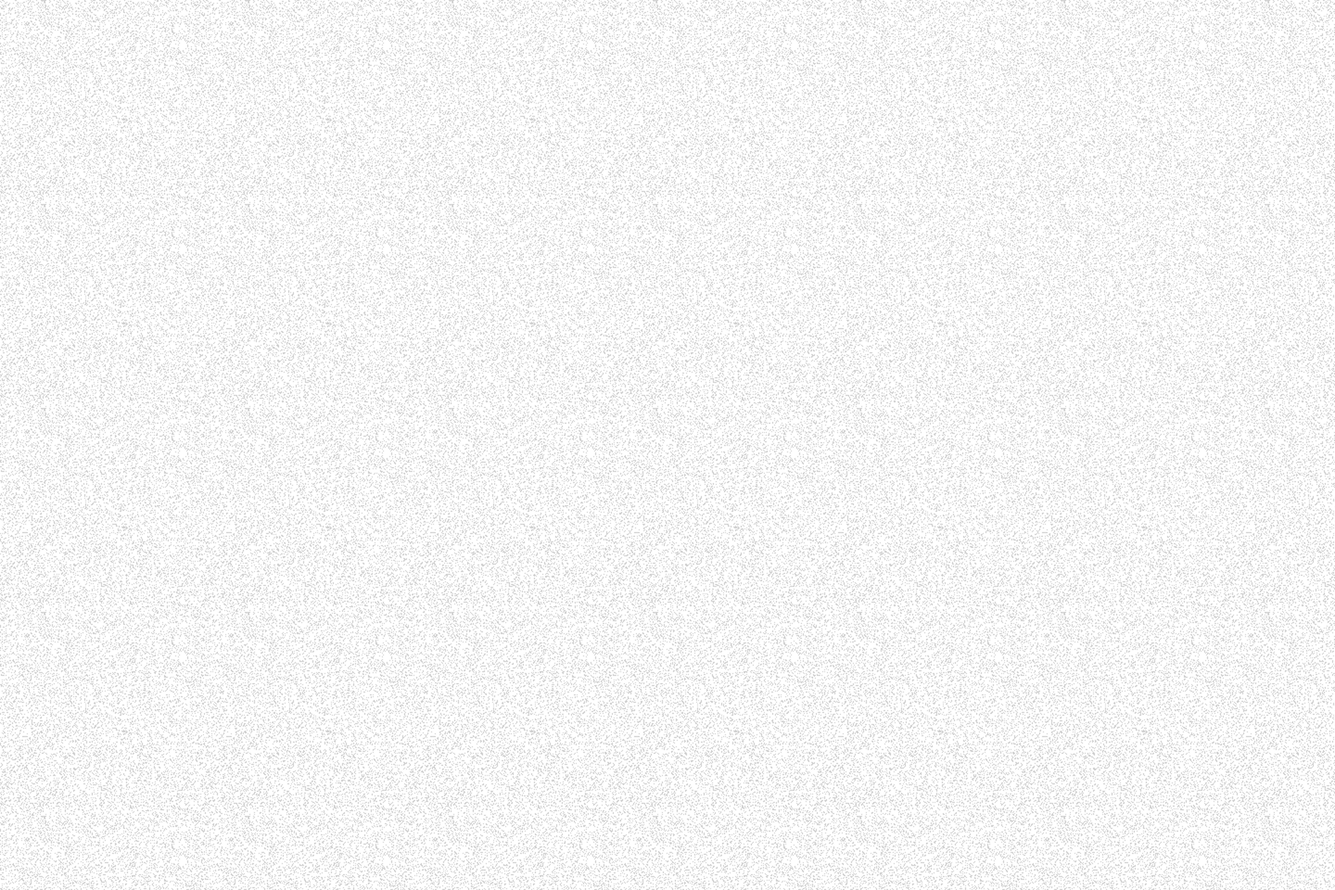
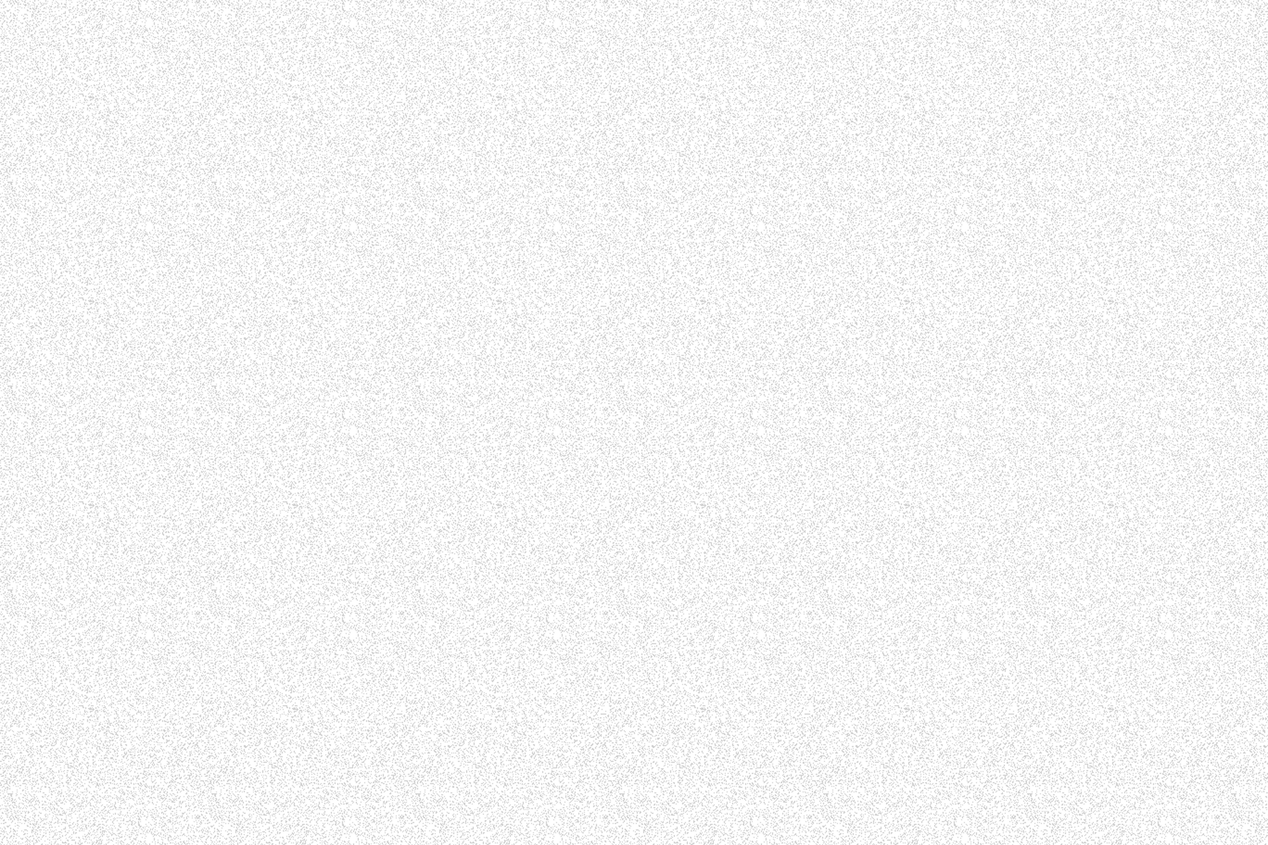
Password change stepper added

Changed region(s): [[0.0, 0.0, 1.0, 1.0]]

diff --git a/components/features/UserDashboard/Settings/PasswordChangeStepper/PasswordChangeStepper.tsx b/components/features/UserDashboard/Settings/PasswordChangeStepper/PasswordChangeStepper.tsx
@@ -1,0 +1,257 @@
+"use client";
+import React, { useState } from "react";
+import { useForm } from "react-hook-form";
+import { Check } from "lucide-react";
+
+const PasswordChangeStepper = () => {
+  const [currentStep, setCurrentStep] = useState(1);
+  const [completedSteps, setCompletedSteps] = useState([]);
+
+  const {
+    register,
+    handleSubmit,
+    watch,
+    formState: { errors },
+    reset,
+  } = useForm({
+    mode: "onChange",
+  });
+
+  const steps = [
+    { number: 1, title: "Personal Information" },
+    { number: 2, title: "Payment Password change" },
+    { number: 3, title: "Login Password change" },
+  ];
+
+  const onSubmit = (data: any) => {
+    console.log("Form submitted:", data);
+    if (currentStep < 3) {
+      if (!completedSteps.includes(currentStep as never)) {
+        setCompletedSteps([...completedSteps, currentStep as never]);
+      }
+      setCurrentStep(currentStep + 1);
+    } else {
+      alert("Password change process completed!");
+    }
+  };
+
+  const handleClear = () => {
+    reset();
+  };
+
+  const watchedNewPassword = watch("newPassword");
+
+  const renderStepContent = () => {
+    switch (currentStep) {
+      case 1:
+        return (
+          <div className="mt-12 relative z-10">
+            <div>
+              <label className="block text-white text-base mb-3">
+                Verification Code<span className="text-red-500 ml-1">*</span>
+              </label>
+              <input
+                {...register("verificationCode", {
+                  required: "Verification code is required",
+                })}
+                type="text"
+                className="w-full py-3 px-4 bg-[#0E0E0E] border border-[#424242] rounded-lg text-white text-base focus:outline-none focus:border-[#00E889] transition-colors"
+              />
+              {errors.verificationCode && (
+                <p className="text-red-500 text-sm mt-2">
+                  {errors.verificationCode.message as string}
+                </p>
+              )}
+            </div>
+          </div>
+        );
+
+      case 2:
+      case 3:
+        return (
+          <div className="mt-12 space-y-8 relative z-10">
+            <div>
+              <label className="block text-white text-base mb-3">
+                New Password<span className="text-red-500 ml-1">*</span>
+              </label>
+              <input
+                {...register("newPassword", {
+                  required: "New password is required",
+                  minLength: {
+                    value: 6,
+                    message: "Password must be at least 6 characters",
+                  },
+                })}
+                type="password"
+                className="w-full py-3 px-4 bg-[#0E0E0E] border border-[#424242] rounded-lg text-white text-base focus:outline-none focus:border-[#00E889] transition-colors"
+              />
+              {errors.newPassword && (
+                <p className="text-red-500 text-sm mt-2">
+                  {errors.newPassword.message as string}
+                </p>
+              )}
+            </div>
+
+            <div>
+              <label className="block text-white text-base mb-3">
+                Repeat Password<span className="text-red-500 ml-1">*</span>
+              </label>
+              <input
+                {...register("repeatPassword", {
+                  required: "Please repeat your password",
+                  validate: (value) =>
+                    value === watchedNewPassword || "Passwords do not match",
+                })}
+                type="password"
+                className="w-full py-3 px-4 bg-[#0E0E0E] border border-[#424242] rounded-lg text-white text-base focus:outline-none focus:border-[#00E889] transition-colors"
+              />
+              {errors.repeatPassword && (
+                <p className="text-red-500 text-sm mt-2">
+                  {errors.repeatPassword.message as string}
+                </p>
+              )}
+            </div>
+
+            <div>
+              <label className="block text-white text-base mb-3">
+                Google Verification Code
+                <span className="text-red-500 ml-1">*</span>
+              </label>
+              <input
+                {...register("googleVerificationCode", {
+                  required: "Google verification code is required",
+                })}
+                type="text"
+                className="w-full py-3 px-4 bg-[#0E0E0E] border border-[#424242] rounded-lg text-white text-base focus:outline-none focus:border-[#00E889] transition-colors"
+              />
+              {errors.googleVerificationCode && (
+                <p className="text-red-500 text-sm mt-2">
+                  {errors.googleVerificationCode.message as string}
+                </p>
+              )}
+            </div>
+          </div>
+        );
+
+      default:
+        return null;
+    }
+  };
+
+  // Calculate progress percentage based on completed steps
+  const getProgressPercentage = () => {
+    if (completedSteps.length === 0) return 0;
+    return (completedSteps.length / (steps.length - 1)) * 100;
+  };
+
+  return (
+    <div className="flex items-center justify-center rounded-3xl overflow-hidden border-b border-[#0c1411] relative">
+      <div
+        style={{
+          backgroundImage: `linear-gradient(180deg, #010101f3 81.09%, #010101f3 100%), url('https://images.unsplash.com/photo-1557683311-eac922347aa1?w=800&h=600&fit=crop')`,
+        }}
+        className="w-full p-4 md:p-8 bg-cover bg-top rounded-3xl overflow-hidden relative"
+      >
+        <div
+          className={`h-[611px] w-[611px] bg-[#00E889] rounded-full absolute -top-[149px] -right-[254px] blur-[200px] opacity-[0.05] group-hover:opacity-[0.2] transition-all duration-300`}
+        />
+        <div
+          className={`h-[611px] w-[611px] bg-[#00E889] rounded-full absolute -bottom-[149px] -left-[254px] blur-[200px] opacity-[0.05] group-hover:opacity-[0.2] transition-all duration-300`}
+        />
+        
+        <div>
+          {/* Stepper Header */}
+          <div className="mb-16">
+            <div className="flex items-start justify-between relative">
+              {/* Background dotted lines - layered approach */}
+              <div className="max-w-[70%] absolute top-5 left-0 right-0 h-[2px] flex">
+                {/* Gray background dots for entire progress */}
+                <div
+                  className="w-full h-full"
+                  style={{
+                    backgroundImage: "radial-gradient(circle, #6b7280 2px, transparent 2px)",
+                    backgroundSize: "8px 2px",
+                    backgroundRepeat: "repeat-x",
+                  }}
+                />
+                
+                {/* Green progress dots overlay */}
+                <div
+                  className="absolute top-0 left-0 h-full transition-all duration-500 ease-in-out"
+                  style={{
+                    width: `${getProgressPercentage()}%`,
+                    backgroundImage: "radial-gradient(circle, #00E889 2px, transparent 2px)",
+                    backgroundSize: "8px 2px",
+                    backgroundRepeat: "repeat-x",
+                  }}
+                />
+              </div>
+
+              {steps.map((step, index) => (
+                <div
+                  key={step.number}
+                  className="flex flex-col relative z-10 flex-1"
+                >
+                  {/* Step Circle */}
+                  <div
+                    className={`w-10 h-10 rounded-full flex items-center justify-center text-sm font-semibold mb-3 relative border-[6px] border-[#0B1913] transition-all duration-300 ${
+                      completedSteps.includes(step.number as never)
+                        ? "bg-gradient-to-r from-[#067549] to-[#00E889] text-white"
+                        : step.number === currentStep
+                        ? "bg-[#00E889] text-white"
+                        : "bg-white text-black"
+                    }`}
+                  >
+                    <div className="absolute inset-0 bg-gray-900 rounded-full -z-10"></div>
+                    {completedSteps.includes(step.number as never) ? (
+                      <Check size={24} />
+                    ) : (
+                      `0${step.number}`
+                    )}
+                  </div>
+
+                  {/* Step Title */}
+                  <span
+                    className={`text-[0.5rem] sm:text-sm font-medium leading-tight px-2 transition-colors duration-300 ${
+                      step.number === currentStep ||
+                      completedSteps.includes(step.number as never)
+                        ? "text-green-400"
+                        : "text-gray-400"
+                    }`}
+                  >
+                    {step.title}
+                  </span>
+                </div>
+              ))}
+            </div>
+          </div>
+
+          {/* Form Content */}
+          <div>
+            {renderStepContent()}
+
+            {/* Action Buttons */}
+            <div className="flex gap-6 mt-16 relative z-10">
+              <button
+                type="button"
+                onClick={handleClear}
+                className="p-3 w-[167px] bg-gray-700 hover:bg-gray-600 text-white font-semibold rounded-full transition-all text-base cursor-pointer duration-300"
+              >
+                Clear
+              </button>
+              <button
+                type="button"
+                onClick={handleSubmit(onSubmit)}
+                className="p-3 w-[167px] bg-transparent hover:bg-[#00E889]/10 text-green-400 hover:text-green-300 font-semibold rounded-full border border-[#00E889] hover:border-green-400 transition-all text-base cursor-pointer duration-300"
+              >
+                Submit
+              </button>
+            </div>
+          </div>
+        </div>
+      </div>
+    </div>
+  );
+};
+
+export default PasswordChangeStepper;

diff --git a/app/(dashboard)/dashboard/settings/page.tsx b/app/(dashboard)/dashboard/settings/page.tsx
@@ -1,11 +1,14 @@
-import React from 'react'
-
+import React from "react";
+import PasswordChangeStepper from "@/components/features/UserDashboard/Settings/PasswordChangeStepper/PasswordChangeStepper";
 export default function SettingsPage() {
   return (
-    <div className='fade-in'>
-        <div className='flex flex-col gap-4'>
-            <h1 className='text-2xl font-bold'>Settings</h1>
-        </div>
+    <div className="fade-in grid grid-cols-1 lg:grid-cols-8">
+      <div className="lg:col-span-3">
+        Hello
+      </div>
+      <div className="lg:col-span-5">
+        <PasswordChangeStepper />
+      </div>
     </div>
-  )
+  );
 }
